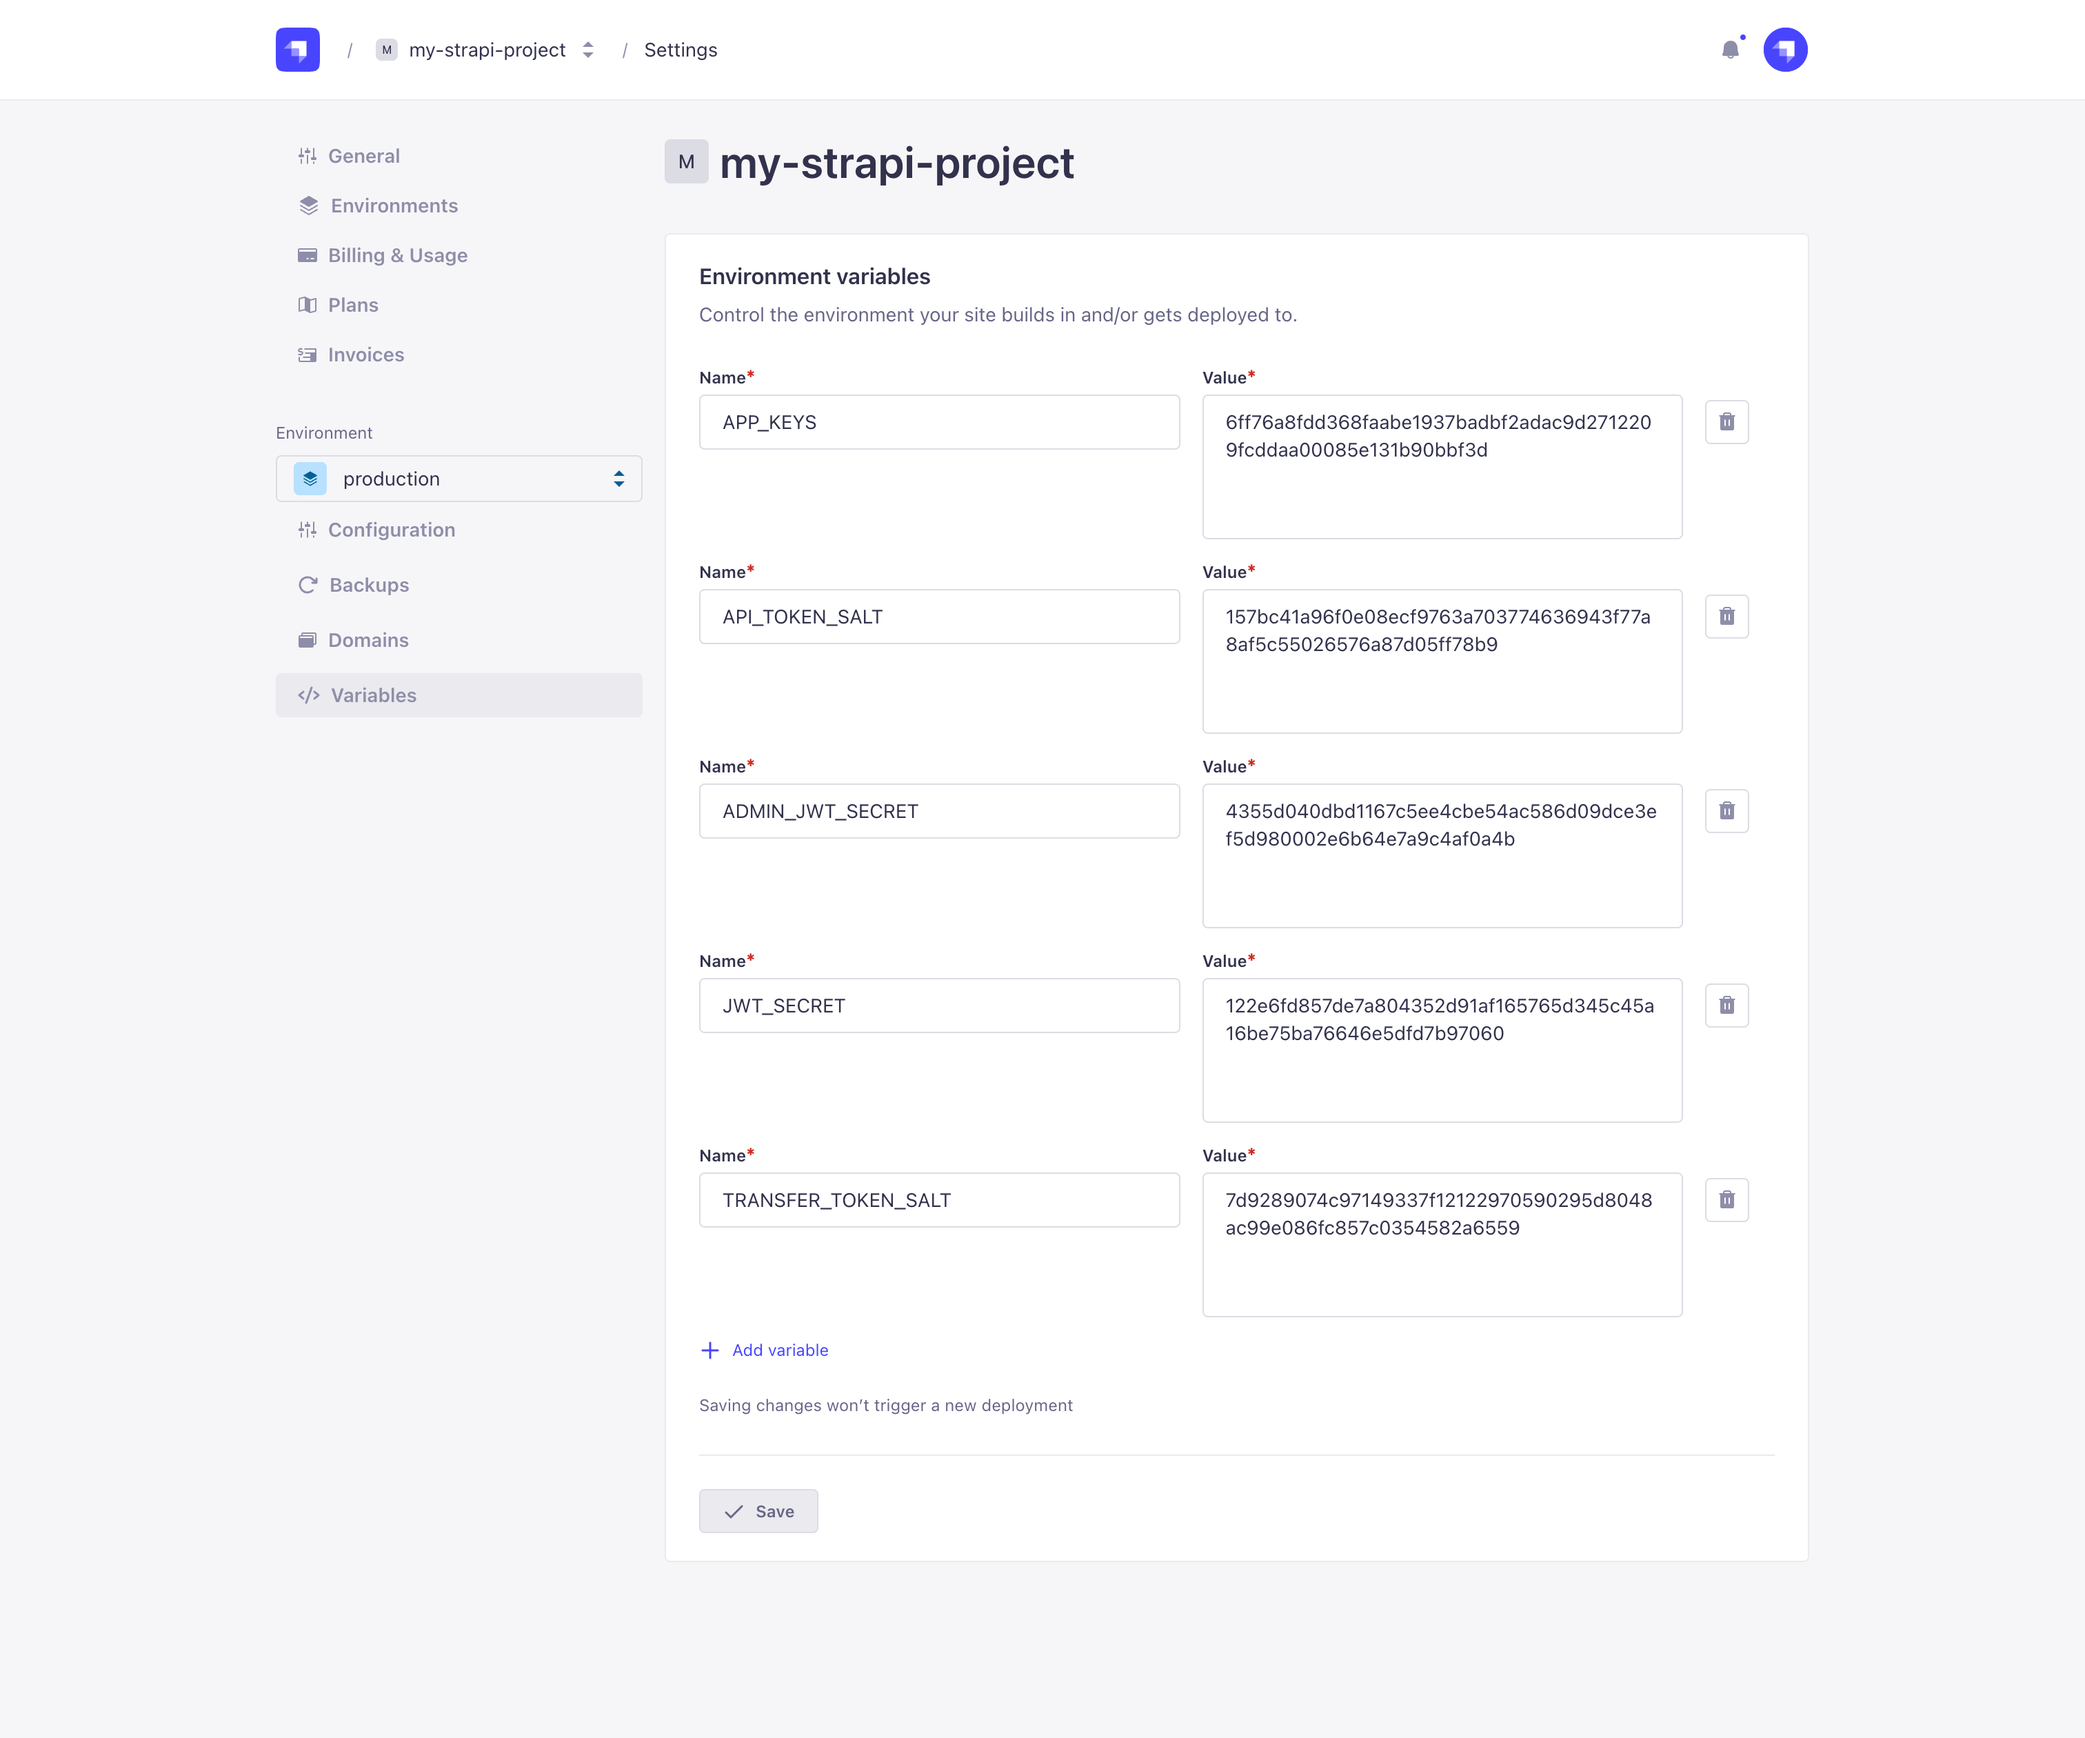
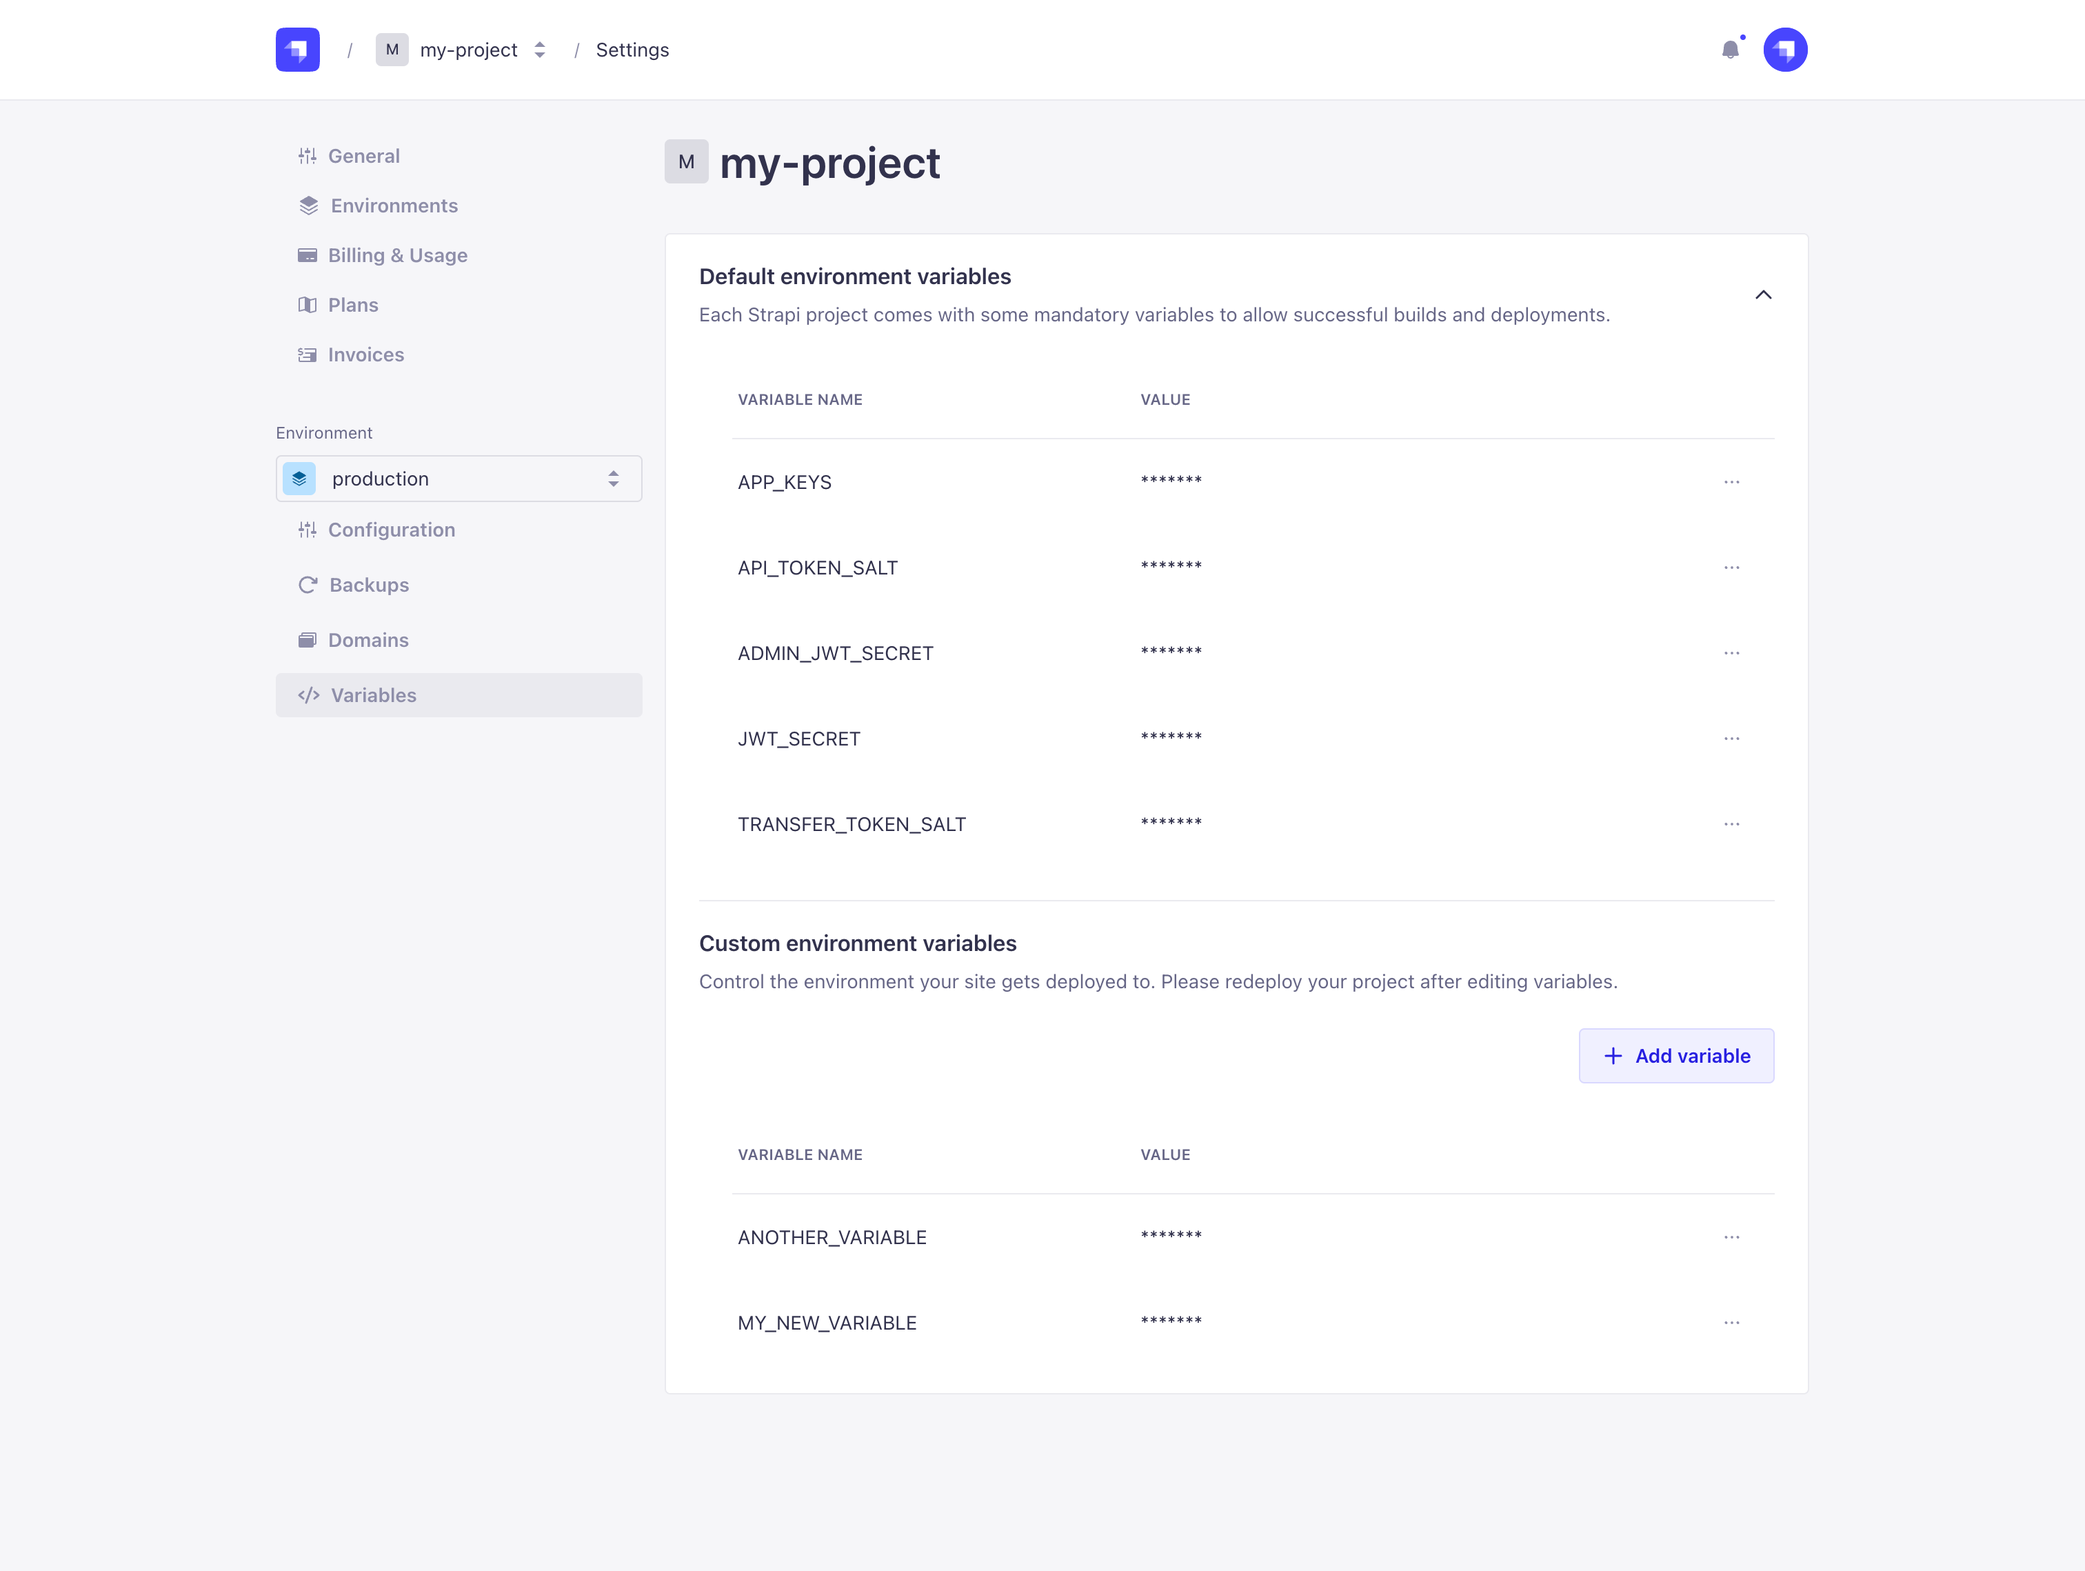
Update Cloud variables doc for revamp + Update screenshots

diff --git a/docusaurus/docs/cloud/projects/settings.md b/docusaurus/docs/cloud/projects/settings.md
@@ -414,8 +414,23 @@ Environment variables (more information in the [Developer Documentation](../../d
   }}
 />
 
-In the <Icon name="code" classes="ph-bold" /> *Variables* tab, you can:
-- click the **Add variable** button to create a new variable
-- edit any variable, each being composed of a *Name* and a *Value*
-- click the <Icon name="trash-simple" /> delete button associated with any non-default variable to delete it
-- click the **Save** button to save any change made on the page
+In the <Icon name="code" classes="ph-bold" /> *Variables* tab are listed both the default and custom environment variables for your Strapi Cloud project. Each variable is composed of a *Name* and a *Value*.
+
+#### Managing environment variables
+
+Hovering on an environment variable, either default or custom, displays the following available options:
+
+- <Icon name="eye" /> **Show value** to replace the `*` characters with the actual value of a variable.
+- <Icon name="copy" /> **Copy to clipboard** to copy the value of a variable.
+- <Icon name="dots-three" /> **Actions** to access the <Icon name="pencil-simple" /> Edit and <Icon name="trash-simple" /> Delete buttons. Both options are only available for custom environment variables.
+  - When editing a variable, don't forget to confirm the changes by clicking on **Save**.
+  - When deleting a variable, you will be asked to click on a **Confirm** button to confirm the deletion.
+
+#### Creating custom environment variables
+
+Custom environment variables can be created for the Strapi Cloud project. Make sure to redeploy your project after creating or editing an environment variable.
+
+1. In the *Custom environment variables* section, click on the **Add variable** button.
+2. Write the *Name* and *Value* of the new environment variable in the same-named fields.
+3. (optional) Click on **Add another** to directly create one or more other custom environment variables.
+4. Click on the **Save** button to confirm the creation of the custom environment variables.
